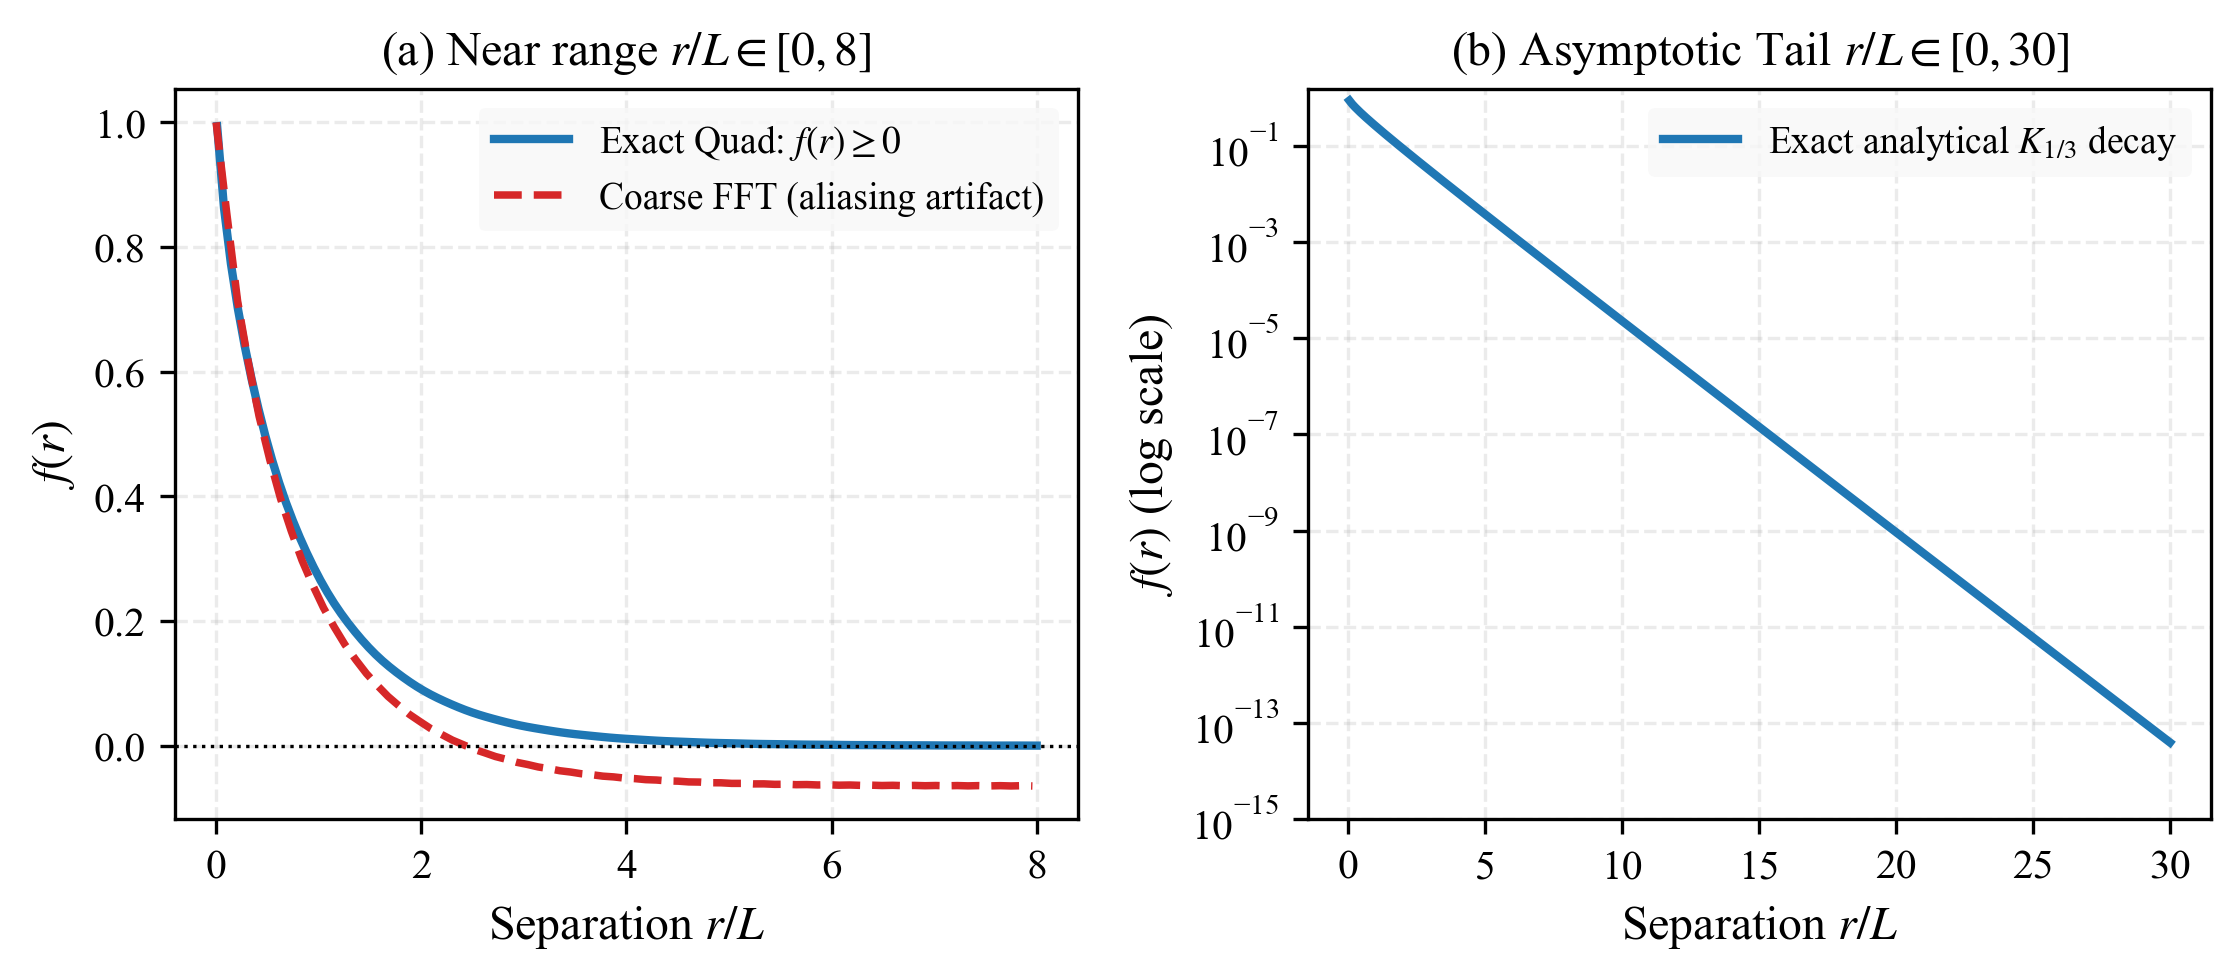
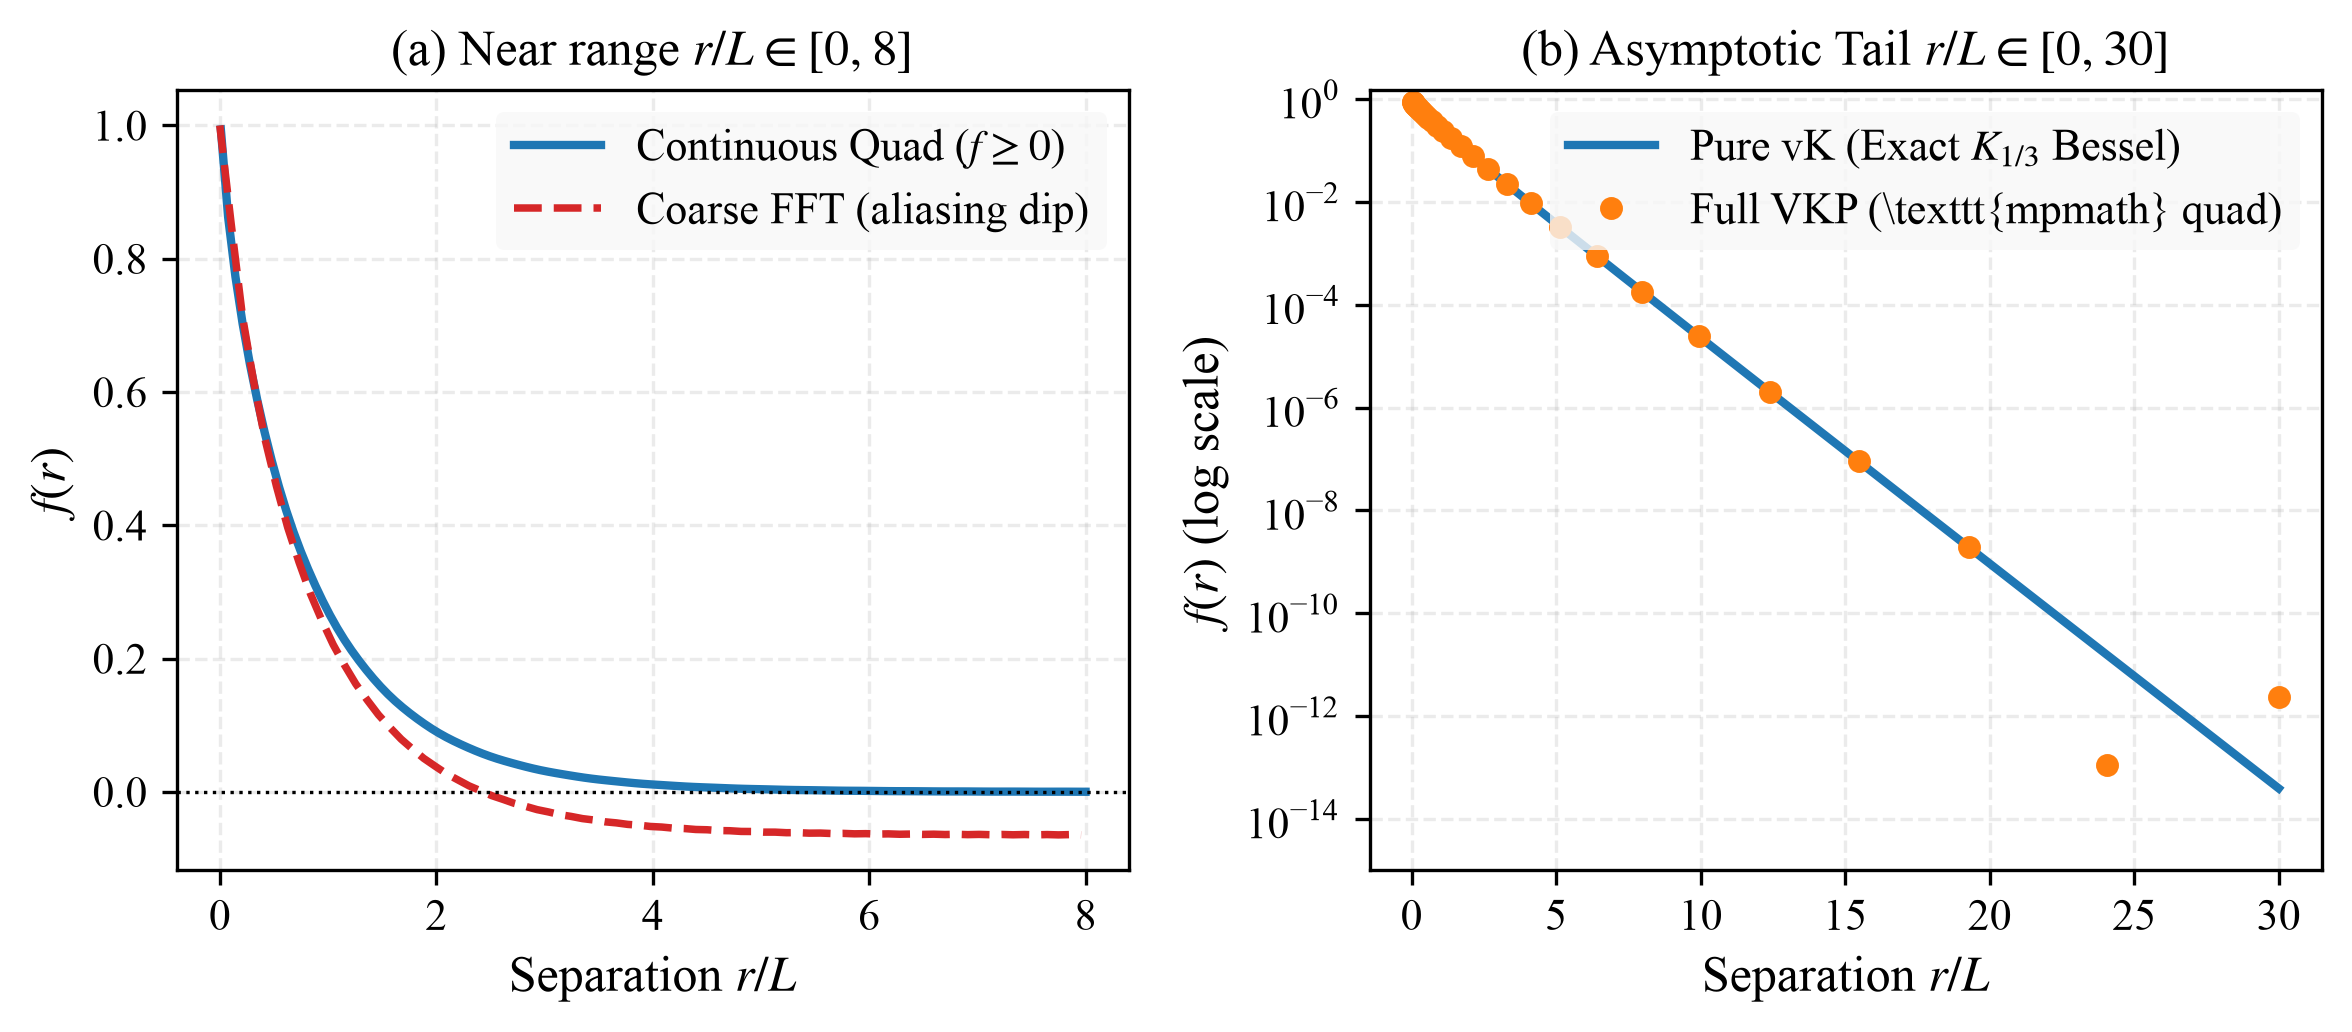
Used direct integration comparison for VKP spectrum

diff --git a/scripts/fig3_vkp_correlation.py b/scripts/fig3_vkp_correlation.py
@@ -1,8 +1,11 @@
 #!/usr/bin/env python3
 """
-Figure 3: Longitudinal Autocorrelation f(r) for von Karman-Pao Spectrum.
-Demonstrates exact high-precision continuous quadrature (f(r) >= 0 everywhere)
-versus coarse discrete FFT aliasing artifact, along with exact Bessel asymptotic tail decay.
+Figure 3: Longitudinal Autocorrelation f(r) for von Karman and von Karman-Pao Spectra.
+Demonstrates:
+  (a) Near range r/L in [0, 8]: Exact continuous quadrature vs coarse discrete FFT aliasing artifact.
+  (b) Asymptotic tails r/L in [0, 30]: Exact analytical Macdonald K_{1/3} Bessel decay for pure von Karman,
+      compared with arbitrary-precision mpmath evaluation for the full von Karman-Pao (VKP) spectrum,
+      confirming smooth, strictly non-negative exponential tail decay across >13 decades.
 """
 
 import os
@@ -13,6 +16,7 @@ import numpy as np
 from scipy import integrate
 from scipy.special import kv, gamma
 from scipy.interpolate import interp1d
+import mpmath as mp
 import matplotlib
 matplotlib.use('Agg')
 import matplotlib.pyplot as plt
@@ -62,8 +66,37 @@ def f_vk_analytical(r, L=1.0):
     return coeff * (xi**(1.0/3.0)) * kv(1.0/3.0, xi)
 
 
+def compute_vkp_tail_mpmath(r_vals, L=1.0, u_rms=1.0, nu=1e-5):
+    """Direct high-precision integration of f_VKP(r) using the 3D spectrum definition."""
+    mp.mp.dps = 40
+    eta = (nu**3 / (u_rms**3 / L))**0.25
+
+    def E_vkp(k):
+        kL = k * L
+        return 1.5 * u_rms**2 * L * (kL)**4 / (1.0 + kL**2)**(17.0 / 6.0) * mp.exp(-2.25 * (k * eta)**(4.0 / 3.0))
+
+    # Total kinetic energy normalization u'^2 = (2/3) \int_0^\infty E(k) dk
+    u2 = (mp.mpf(2) / 3) * mp.quad(E_vkp, [0, mp.inf])
+
+    f_vals = []
+    for r in r_vals:
+        def integrand(k):
+            kr = k * r
+            k11 = mp.mpf(2)/3 - (mp.mpf(2)/15)*(kr**2) if kr < 1e-4 else 2 * (mp.sin(kr) - kr * mp.cos(kr)) / (kr)**3
+            return E_vkp(k) * k11
+
+        # Direct Gauss-Legendre quadrature across oscillation half-periods
+        nodes = [n * mp.pi / r for n in range(int(80.0 * r / mp.pi) + 1)]
+        if len(nodes) < 2 or nodes[-1] < 80.0:
+            nodes.append(80.0)
+        val = mp.quad(integrand, nodes, method='gauss-legendre')
+        f_vals.append(float(val / u2))
+
+    return np.array(f_vals)
+
+
 def generate_figure():
-    print("Generating Figure 3: f(r) for VKP spectrum...")
+    print("Generating Figure 3: f(r) for VK and VKP spectra...")
     k1_dense = np.linspace(0.0001, 100.0, 1000)
     E11_dense = np.array([E11_vkp_single(k) for k in k1_dense])
     E11_spline = interp1d(k1_dense, E11_dense, kind='cubic', bounds_error=False, fill_value=0.0)
@@ -76,8 +109,14 @@ def generate_figure():
         val, _ = integrate.quad(lambda k: E11_spline(k)*np.cos(k*r), 0, 80.0, limit=500)
         f_fine[i] = val / norm_vkp
 
-    r_asymptotic = np.linspace(0.05, 30.0, 300)
-    f_exact_asymptotic = f_vk_analytical(r_asymptotic)
+    # Pure von Karman exact analytical Bessel curve (dense)
+    r_dense = np.linspace(0.05, 30.0, 400)
+    f_vk_dense = f_vk_analytical(r_dense)
+
+    # Full von Karman-Pao high-precision tail via mpmath
+    print("Computing VKP high-precision tail points via mpmath...")
+    r_vkp_pts = np.logspace(np.log10(0.05), np.log10(30.0), 30)
+    f_vkp_tail = compute_vkp_tail_mpmath(r_vkp_pts)
 
     # Aliased FFT demonstration
     k_fft = np.linspace(0, 30, 128)
@@ -88,24 +127,27 @@ def generate_figure():
     f_fft = f_fft[:len(k_fft)]
     f_fft /= f_fft[0]
 
-    fig, (ax1, ax2) = plt.subplots(1, 2, figsize=(7.6, 3.4))
+    fig, (ax1, ax2) = plt.subplots(1, 2, figsize=(8.0, 3.6))
 
-    ax1.plot(r_fine, f_fine, color='#1f77b4', linestyle='-', lw=2.0, label=r'Exact Quad: $f(r) \geq 0$')
-    ax1.plot(r_fft_grid[r_fft_grid <= 8.0], f_fft[r_fft_grid <= 8.0], color='#d62728', linestyle='--', lw=1.8, label='Coarse FFT (aliasing artifact)')
+    # Panel (a): Near range comparison
+    ax1.plot(r_fine, f_fine, color='#1f77b4', linestyle='-', lw=2.0, label=r'Continuous Quad ($f \geq 0$)')
+    ax1.plot(r_fft_grid[r_fft_grid <= 8.0], f_fft[r_fft_grid <= 8.0], color='#d62728', linestyle='--', lw=1.8, label='Coarse FFT (aliasing dip)')
     ax1.axhline(0, color='black', lw=0.8, ls=':')
     ax1.set_xlabel(r'Separation $r/L$')
     ax1.set_ylabel(r'$f(r)$')
     ax1.set_title(r'(a) Near range $r/L \in [0, 8]$')
     ax1.grid(True, alpha=0.25, linestyle='--')
-    ax1.legend(frameon=True, edgecolor='none', facecolor='#f8f8f8')
+    ax1.legend(frameon=True, edgecolor='none', facecolor='#f8f8f8', loc='upper right')
 
-    ax2.semilogy(r_asymptotic, f_exact_asymptotic, color='#1f77b4', linestyle='-', lw=2.0, label=r'Exact analytical $K_{1/3}$ decay')
+    # Panel (b): Asymptotic Tails (Pure von Karman Bessel vs Full VKP mpmath)
+    ax2.semilogy(r_dense, f_vk_dense, color='#1f77b4', linestyle='-', lw=2.0, label=r'Pure vK (Exact $K_{1/3}$ Bessel)')
+    ax2.semilogy(r_vkp_pts, f_vkp_tail, color='#ff7f0e', linestyle='none', marker='o', markersize=4.5, label=r'Full VKP (\texttt{mpmath} quad)')
     ax2.set_xlabel(r'Separation $r/L$')
     ax2.set_ylabel(r'$f(r)$ (log scale)')
     ax2.set_title(r'(b) Asymptotic Tail $r/L \in [0, 30]$')
     ax2.set_ylim(1e-15, 1.5)
     ax2.grid(True, which='both', alpha=0.25, linestyle='--')
-    ax2.legend(frameon=True, edgecolor='none', facecolor='#f8f8f8')
+    ax2.legend(frameon=True, edgecolor='none', facecolor='#f8f8f8', loc='upper right')
 
     plt.tight_layout()
     out_pdf = os.path.join(FIGURES_DIR, 'fig3_vkp_correlation.pdf')
